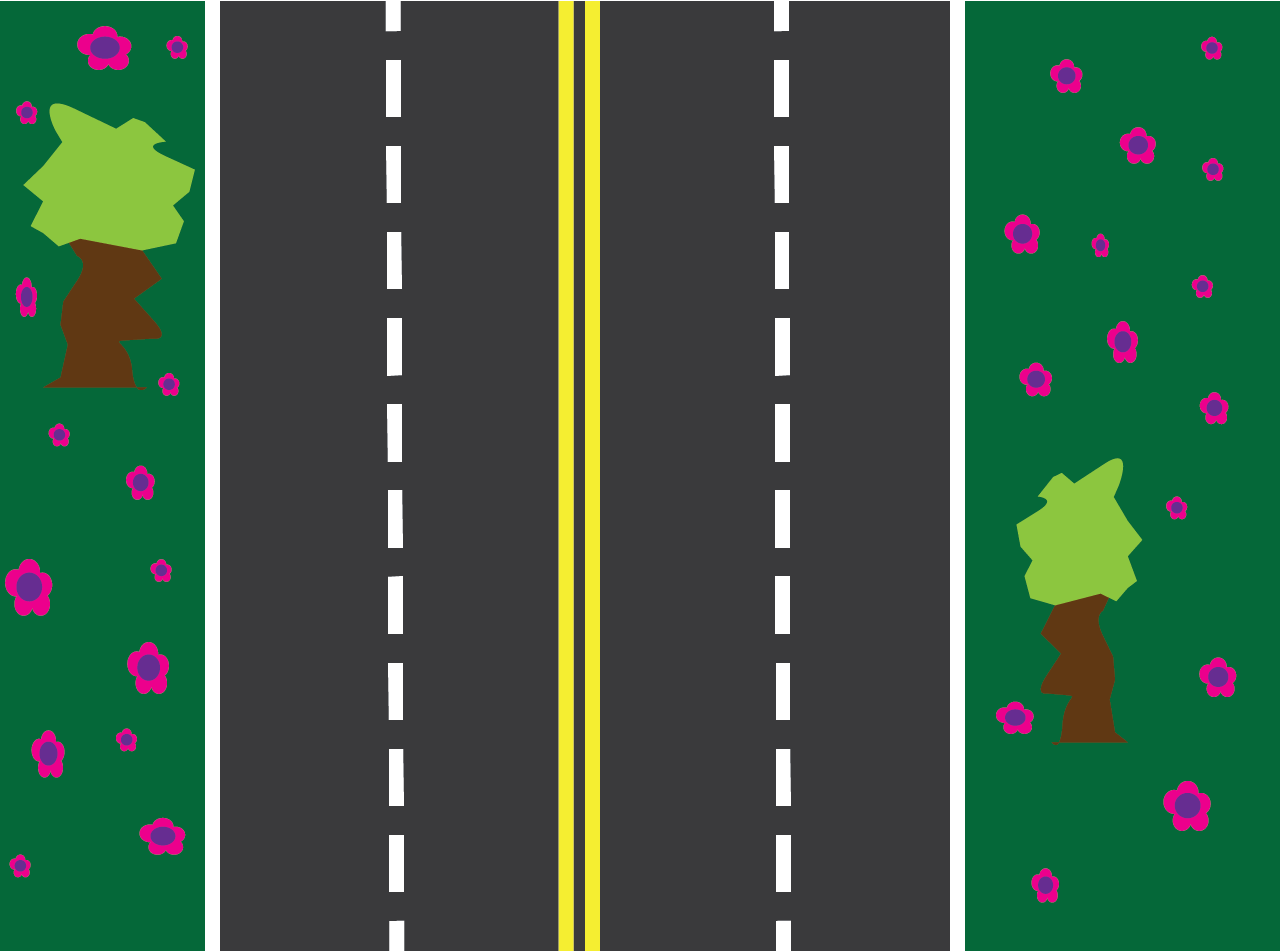
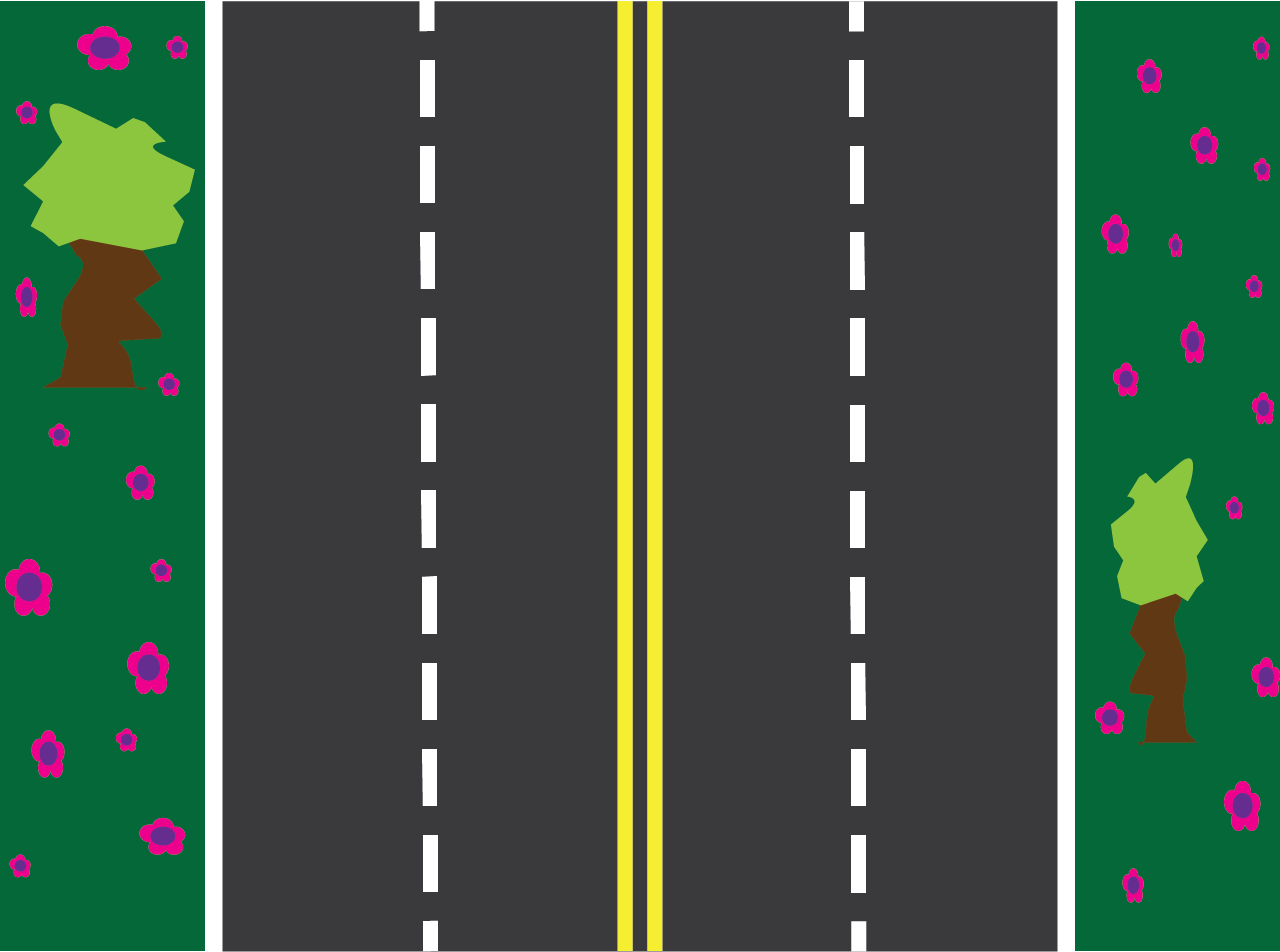
fix/add image for track and barrier

diff --git a/obstacle.py b/obstacle.py
@@ -49,7 +49,6 @@ class Obstacle:
             self._y_coord += self._speed
         else:
             self._y_coord = 0
-        return self._y_coord
 
     def create_obstacles(self):
         """Calls all functions to make the obstacles"""
@@ -88,10 +87,10 @@ class Obstacle:
         for obstacle_list in self._all_obstacles.values():
             for obstacle in obstacle_list:
                 obstacle_rect = py.Rect(
-                    obstacle.get_x_coord,
+                    obstacle.x_coord,
                     obstacle.y_coord,
-                    obstacle.get_width,
-                    obstacle.get_height,
+                    obstacle.width,
+                    obstacle.height,
                 )
                 if car_rect.colliderect(obstacle_rect):
                     return True
@@ -110,20 +109,28 @@ class Barrier(Obstacle):
         super().__init__(car, road)
         self._x_coord = random.randint(220, 950)
         self._y_coord = 0
-        self._width = 5 * self._road._lane_size
-        self._height = 15
+        self._width = 150
+        self._height = 30
+        self._image = py.image.load(
+            "images/obstacles/barrier.png"
+        ).convert_alpha()
 
     @property
-    def get_x_coord(self):
+    def x_coord(self):
         """return x_coord"""
         return self._x_coord
 
     @property
-    def get_width(self):
+    def width(self):
         """return width"""
         return self._width
 
     @property
-    def get_height(self):
+    def height(self):
         """return height"""
         return self._height
+
+    @property
+    def image(self):
+        """return image"""
+        return self._image

diff --git a/view.py b/view.py
@@ -39,7 +39,9 @@ class View:
         self._powerup_choice = {}
         self._chosen_texts = None
 
-        self.countdown_time = 30 * 1000 #change this to be the idle speed x distance till next checkpoint
+        self.countdown_time = (
+            30 * 1000
+        )  # change this to be the idle speed x distance till next checkpoint
         self._time_left = self.countdown_time
 
     @property
@@ -85,7 +87,7 @@ class View:
             self._road.length - self._road.distance_traveled
         )
         minimap_text = self._small_font.render(
-            f"Distance left: {distance_left}",
+            f"Distance left until next checkpoint: {distance_left}",
             True,
             (255, 255, 255),
         )
@@ -194,18 +196,11 @@ class View:
         self.draw_barriers()
 
     def draw_barriers(self):
+        """draws and updates the y coord of the barriers"""
         barriers = self._all_obstacles["barriers"]
         for barrier in barriers:
-            pygame.draw.rect(
-                self._screen,
-                (255, 255, 0),
-                (
-                    barrier._x_coord,
-                    barrier.update_obstacle(),
-                    barrier._width,
-                    barrier._height,
-                ),
-            )
+            barrier.update_obstacle()
+            self._screen.blit(barrier.image, (barrier.x_coord, barrier.y_coord))
 
     def draw_timer(self):
         """
@@ -219,7 +214,6 @@ class View:
             f"Time Left: {time_left_seconds}s", True, (255, 255, 255)
         )
         self._screen.blit(timer_text, (20, 20))
-        if 
 
     def draw_pause_button(self):
         """

diff --git a/end_screen.py b/end_screen.py
@@ -49,6 +49,8 @@ def draw_end(road, checkpoint, view):
                 else:
                     active = False
             if event.type == pygame.KEYDOWN:
+                if event.key == pygame.K_SLASH:
+                    running = False
                 if event.key == pygame.K_RETURN:
                     save_score(user_text, score["total"])
                     running = False

diff --git a/track.py b/track.py
@@ -22,7 +22,6 @@ class Road:
         self._width = 1280
         self._height = 950
         self._length = length
-        self._lane_size = 30  # should be 1/3 of the car width
         self._image = py.image.load("images/track.png")
         self._distance_traveled = 0
 
